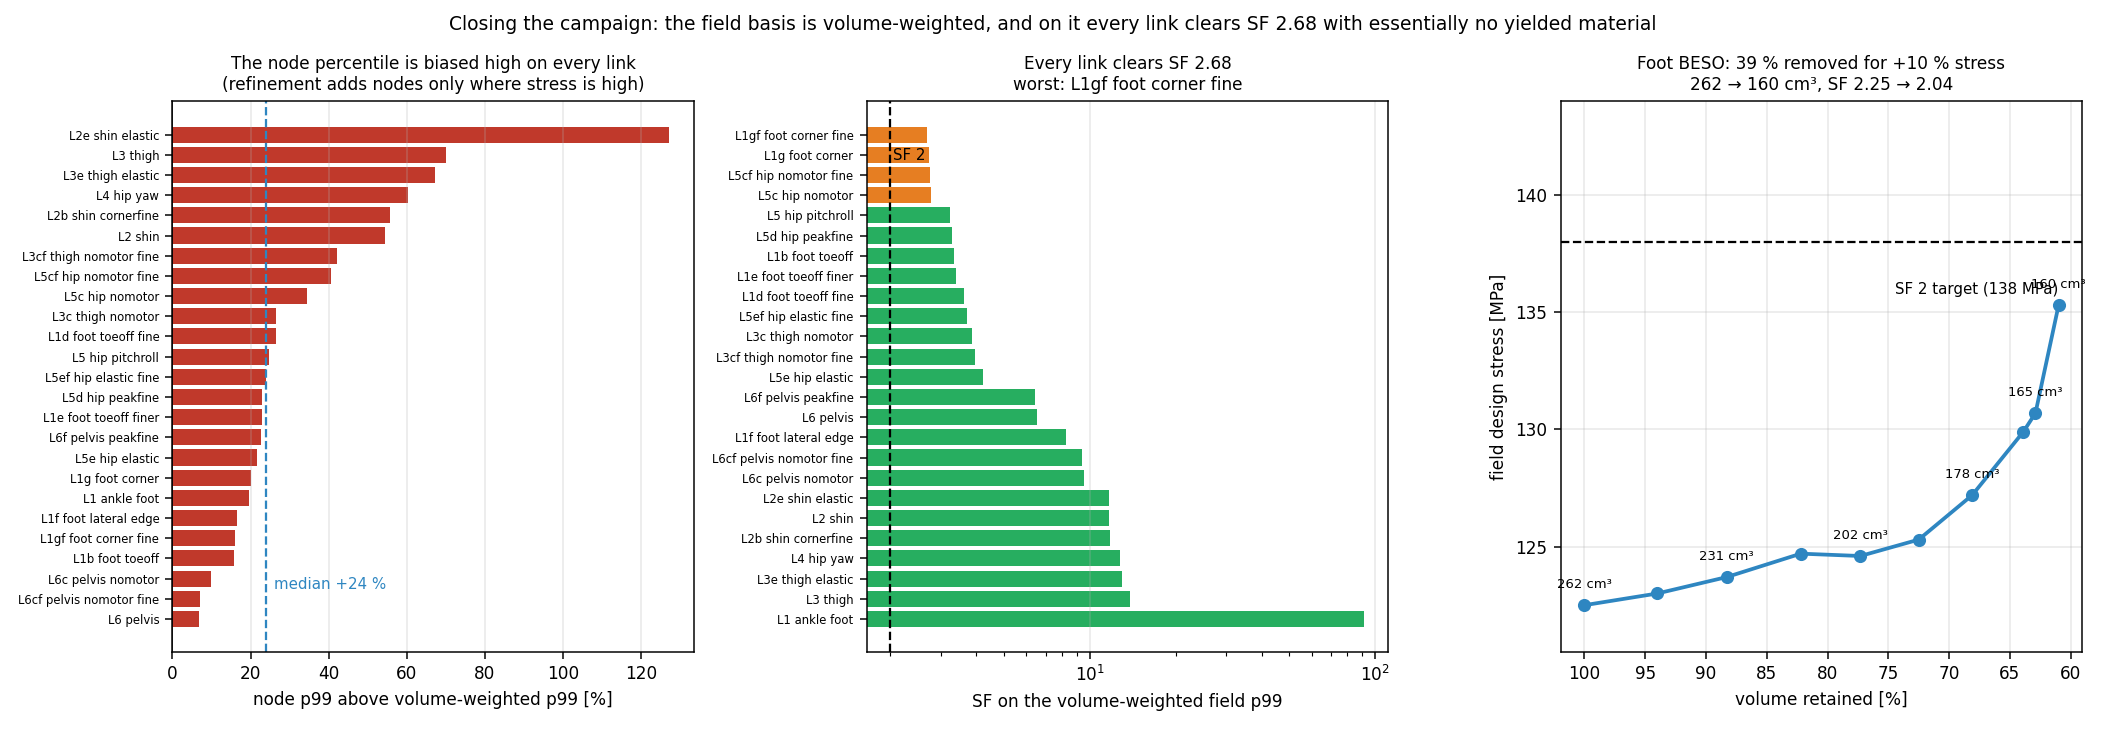
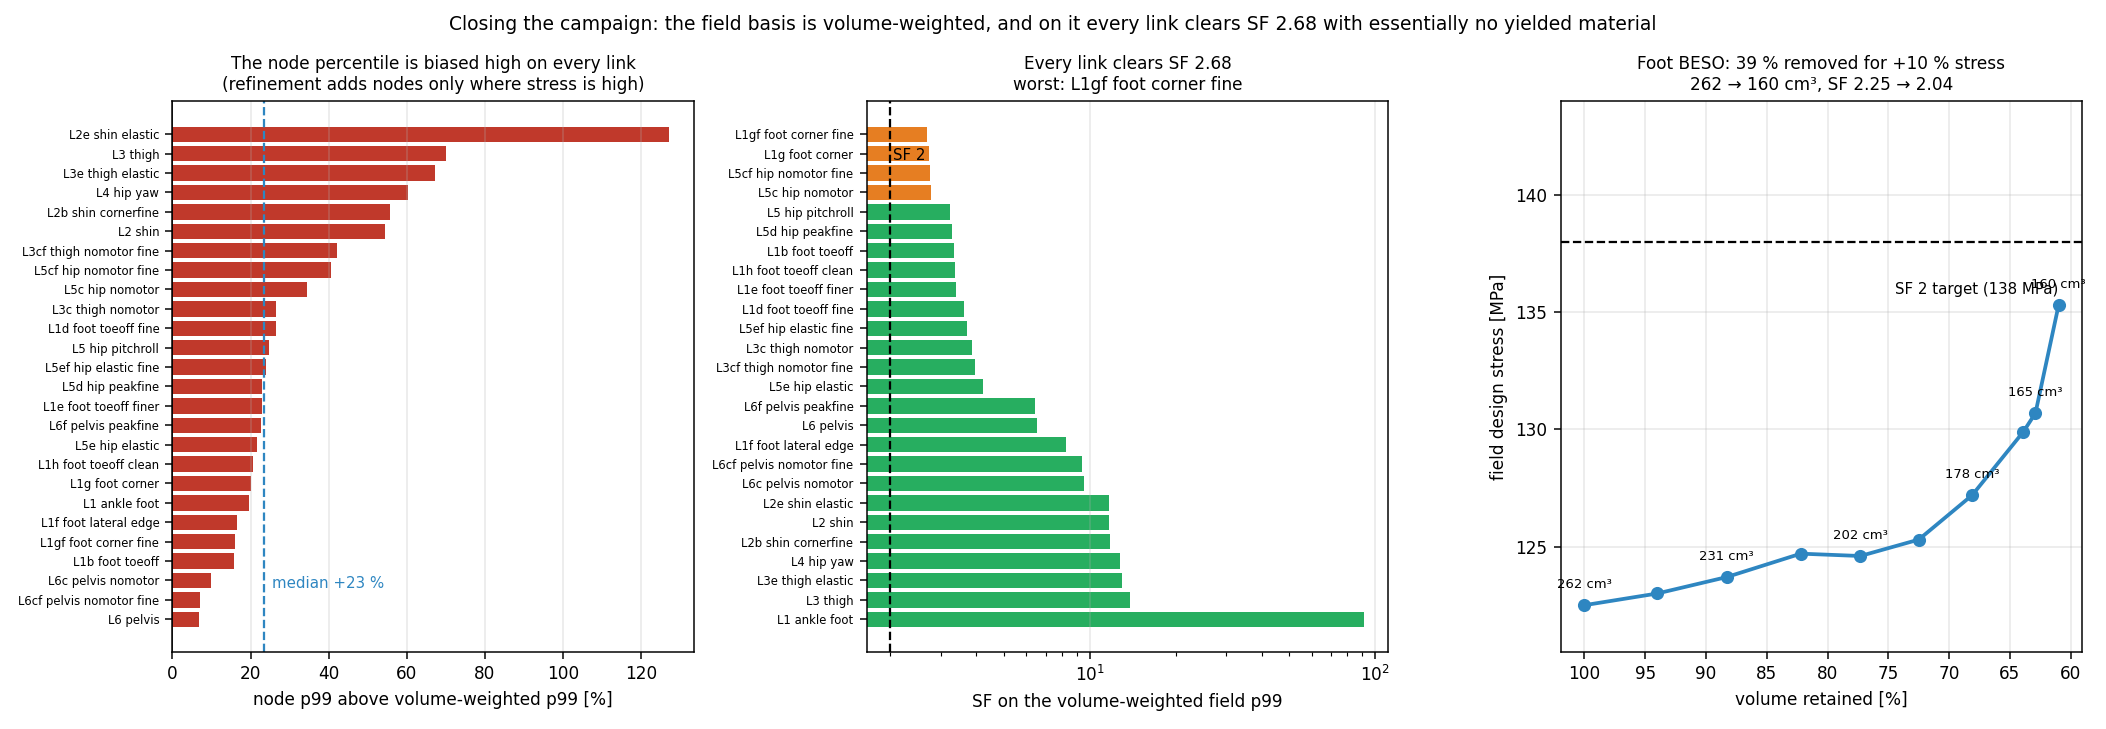
convergence.py crashed after the contamination guard: a skipped family stayed in the plot set and keyed into a verdict dict that never got an entry, so the run died before writing convergence.json - every later run then read a stale classification that still called the retired foot family singular
Fixed by plotting only what was classified, with an assert that the two sets match. The
refreshed classification has the clean L1b+L1h pair at lambda +0.48 and drops the retired
one.

Also closes L5e: three attempts established it is the mesher, not a node cap - the ladder
fails at size_far 19.94 and only succeeds at 29.91, where the bore seat collapses to 25
nodes. Recorded as unclassifiable; its field SF is 4.22 so nothing depends on it.

Changed region(s): [[0.3395, 0.1811, 0.5247, 0.8148], [0.0, 0.1811, 0.216, 0.845], [0.1235, 0.7846, 0.1852, 0.8148]]

diff --git a/tools/fea/convergence.py b/tools/fea/convergence.py
@@ -95,7 +95,7 @@ def main():
 
     print(f"{'family':16s} {'link':26s} {'h[mm]':>6s} {'nodes':>8s} {'point':>8s} "
           f"{'field p99':>10s}")
-    verdict = {}
+    verdict, plot_rows = {}, {}
     for name, rows in fam.items():
         rows.sort(key=lambda r: -r['h'])            # coarse -> fine
         # A twin is only interpretable if everything EXCEPT the hot spot is unchanged. The
@@ -134,6 +134,7 @@ def main():
         # vanishing however fine the mesh gets, because the yielded volume tends to zero.
         ov = np.array([r['over_pct'] for r in rows])
         ovn = np.array([r['over_n'] for r in rows])
+        plot_rows[name] = rows
         verdict[name] = dict(point_drift=float(dp), field_drift=float(df),
                              h_coarse=float(h[0]), h_fine=float(h[-1]), lam=lam,
                              over_pct=float(ov[-1]), over_n=int(ovn[-1]),
@@ -153,7 +154,9 @@ def main():
 
     # the figure: point vs field against mesh density, normalised to the coarsest mesh
     plt.rcParams.update({'figure.dpi': 135, 'font.size': 9})
-    fig, axes = plt.subplots(1, len(fam) + 1, figsize=(3.6 * (len(fam) + 1), 4.0))
+    fam = plot_rows                       # only what was actually classified
+    assert set(fam) == set(verdict), 'plot set and verdict set diverged'
+    fig, axes = plt.subplots(1, len(fam) + 1, figsize=(3.4 * (len(fam) + 1), 4.0))
     for ax, (name, rows) in zip(axes, fam.items()):
         n = np.array([r['h'] for r in rows])
         o = np.argsort(-n)                          # coarse (left) -> fine (right)

diff --git a/docs/77_structural_fea_lightweighting.md b/docs/77_structural_fea_lightweighting.md
@@ -928,9 +928,12 @@ L6 17.1→1.9 %, L5c 5.5→0.9 %로 떨어져 **메시 독립이 성립**한다.
 5. ⚠**`L2cf_shin_nomotor_fine` 차단** — L2c STEP에 자기교차 결함이 있어 기준(7.11 mm)보다
    조밀한 어떤 메시도 gmsh PLC 오류를 낸다(`repair_overlaps` 켜고 h 2.2/2.6/4.0 전부 실패).
    L2c는 필드 SF 7.06으로 여유가 커 우선순위가 낮으므로 **CAD 수정 전까지 미분류로 둔다**.
-6. ⚠**L5e 깨끗한 쌍 재시도 중** — 원거리 오염(19.94→29.91)의 원인은 `PYG_MAX_NODES` 420k
-   내부 상한이었다(탄성 하우징 메시가 비싸 상한에 걸림). 800k로 올려 `L5eh_hip_elastic_clean`
-   재실행 중. L5e 자체는 필드 SF 4.22로 여유가 커 판정에는 영향 없다.
+6. ⛔**L5e(탄성 하우징)는 깨끗한 쌍 생성 불가 — 종결**. 3회 시도 후 원인 확정:
+   `PYG_MAX_NODES` 상한이 아니라 **메셔 자체가 실패**한다. 러너의 사다리가
+   `size_far` 19.94에서 실패하고 3번째 시도(29.91)에서야 성공하며, 그 메시에서는
+   `bore` 시트가 **25절점(점지지)** 으로 떨어져 경고가 뜬다 — 탄성 하우징의 불리언 트림
+   형상이 그 조밀도를 감당 못 한다. **L5e는 미분류로 확정**하되, 필드 SF 4.22로 여유가 커
+   판정에 영향이 없다. 필요해지면 하우징 형상 단순화가 선행돼야 한다.
 
 ⚠**표는 스냅샷**이다. 이번 회차에도 L5d 444.3→312.3, L6f 신규로 결론이 두 번 바뀌었다.
 `verdicts.py` 재실행이 항상 최신이다.
